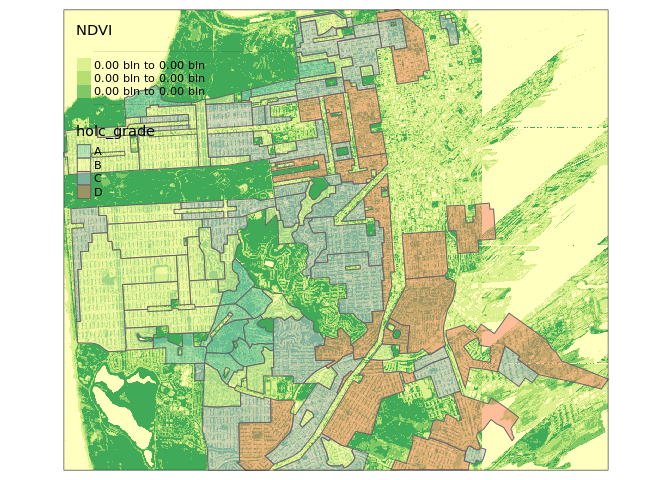
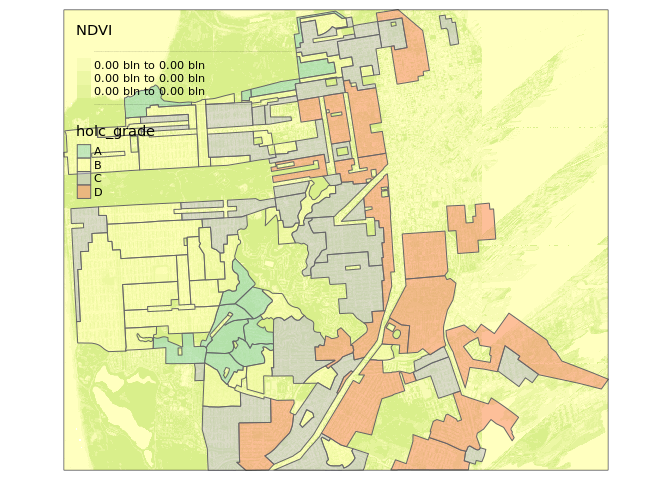
new maps

diff --git a/assignment/spatial-assignment.md b/assignment/spatial-assignment.md
@@ -421,10 +421,11 @@ ndvi_poly <- left_join(sf2 , ave_ndvi)
 
 ``` r
 ndvi_poly <- filter(ndvi_poly, NDVI > -1)
+ndvi_poly <- filter(ndvi_poly, NDVI < 1)
 ndvi_poly
 ```
 
-    ## # A tibble: 96 × 7
+    ## # A tibble: 95 × 7
     ##      FID name  holc_id holc_grade                           geometry time   NDVI
     ##    <int> <chr> <chr>   <chr>                      <MULTIPOLYGON [°]> <chr> <dbl>
     ##  1     1 <NA>  A1      A          (((-122.4755 37.78687, -122.4755 … 2022… 0.310
@@ -437,7 +438,7 @@ ndvi_poly
     ##  8     8 <NA>  A4      A          (((-122.446 37.80388, -122.4458 3… 2022… 0.238
     ##  9     9 <NA>  A5      A          (((-122.4463 37.79187, -122.447 3… 2022… 0.308
     ## 10    10 <NA>  A6      A          (((-122.4731 37.7346, -122.4724 3… 2022… 0.282
-    ## # ℹ 86 more rows
+    ## # ℹ 85 more rows
 
 ``` r
 tmap_mode("plot")
@@ -451,8 +452,6 @@ tm_shape(ndvi_poly) + tm_polygons("NDVI", palette = "Greens") +
   tm_shape(ndvi_poly) + tm_text("holc_grade", size = 0.5)
 ```
 
-    ## Legend labels were too wide. The labels have been resized to 0.05, 0.02, 0.02, 0.02. Increase legend.width (argument of tm_layout) to make the legend wider and therefore the labels larger.
-
 ![](spatial-assignment_files/figure-gfm/unnamed-chunk-14-1.png)<!-- -->
 
 ``` r
@@ -464,10 +463,10 @@ ndvi_poly |> as_tibble() |>
     ## # A tibble: 4 × 2
     ##   holc_grade mean_NDVI
     ##   <chr>          <dbl>
-    ## 1 A          3.16e-  1
-    ## 2 B          2.11e-  1
-    ## 3 C          5.92e+266
-    ## 4 D          1.82e-  1
+    ## 1 A              0.316
+    ## 2 B              0.211
+    ## 3 C              0.193
+    ## 4 D              0.182
 
 # Exercise 3:
 
